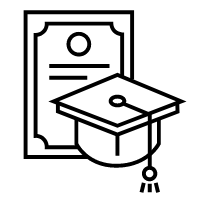
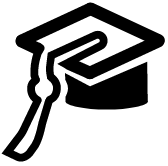
2020620

diff --git a/honorandawards.html b/honorandawards.html
@@ -70,7 +70,7 @@ function toggleBibtex(articleid) {
 <h1><img src="icon/Honors.png" width="20px" /> Honors & Awards / 荣誉与获奖</h1>
 </div>
 
-<h2><img src="icon/Honors.png" width="18px" /> Academic Awards / 学术获奖</h2>
+<h2><img src="icon/Academicawards.png" width="18px" /> Academic Awards / 学术获奖</h2>
 
 <ol>
 
